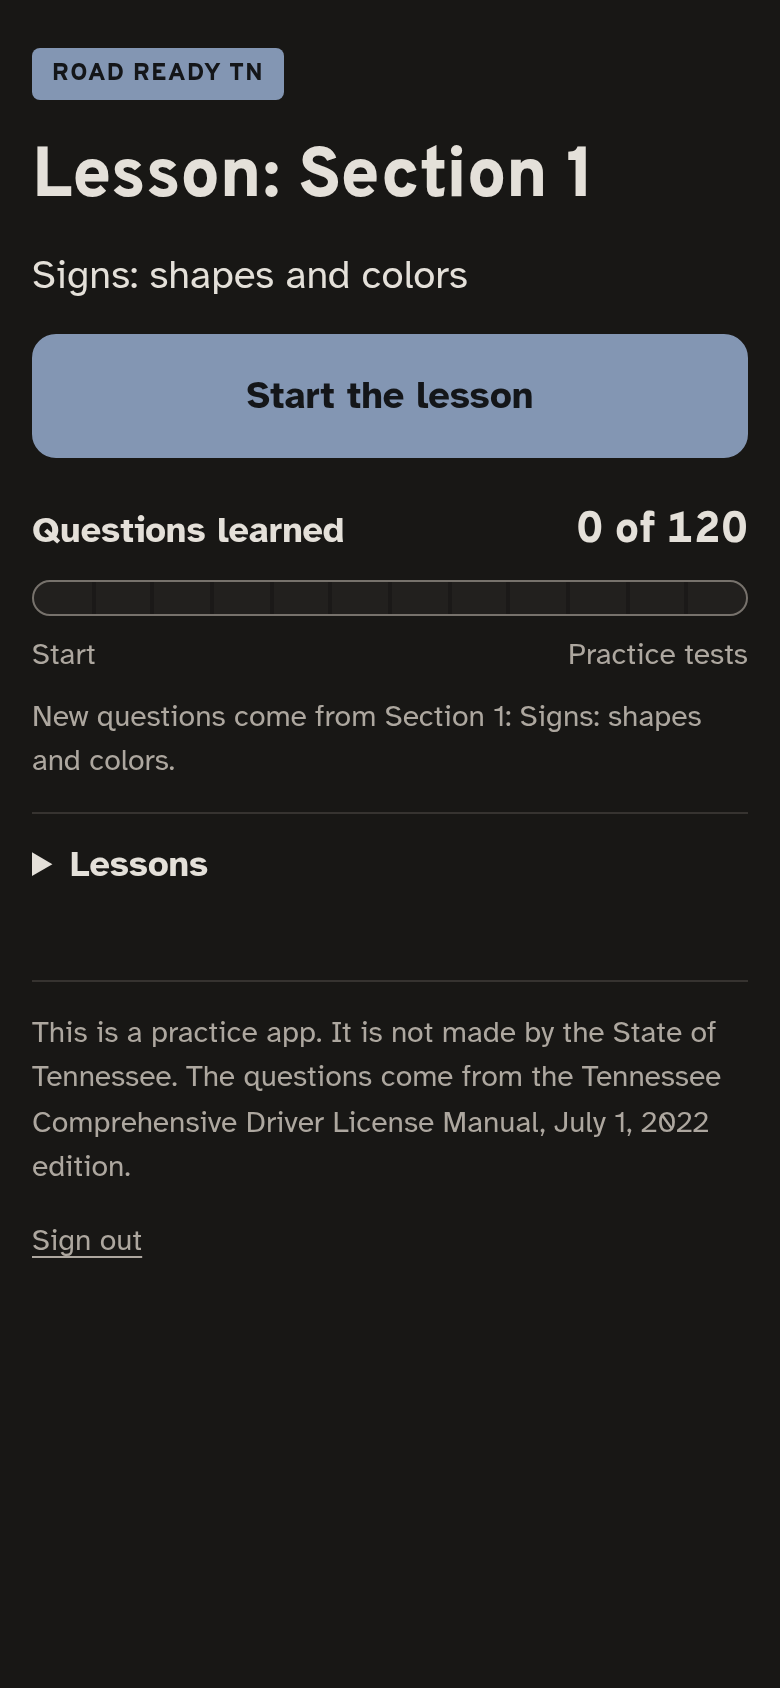
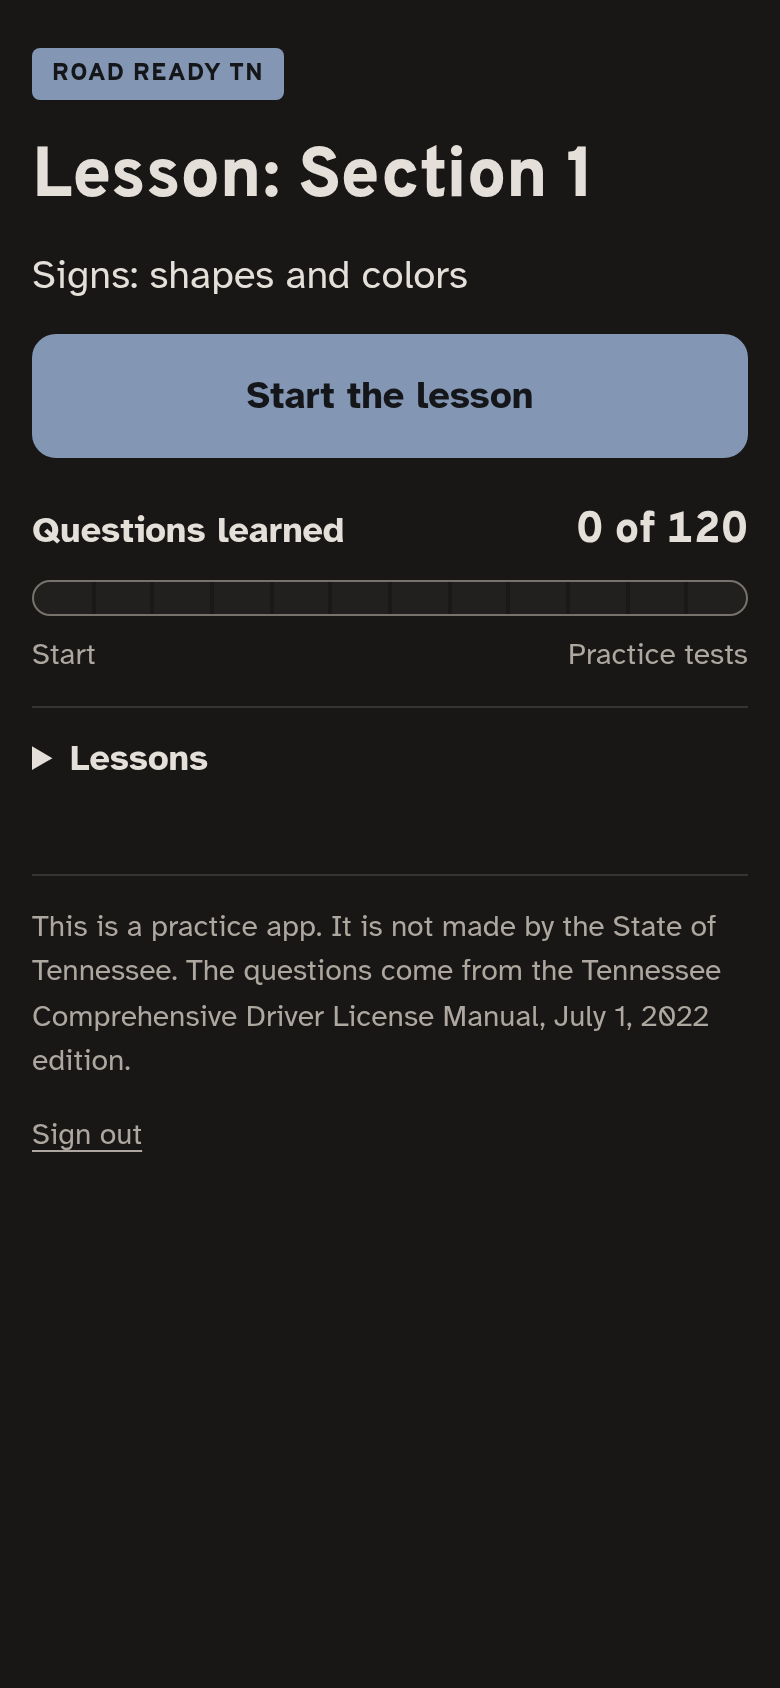
Nothing is written under the bar of questions learned
The line "New questions come from Section N: title." was left from the Set flow, when a quiz introduced new facts and the bar had to say which Section they came from. With "Lesson: Section N" named right above it, it repeated the lesson block in a sentence, which the owner asked about. Gone, with its two siblings ("You have learned every question. Practice tests are open to you.", "You are Ready for the test."), which the Practice tests heading and the Ready sign already say.

Changed region(s): [[0.0308, 0.4929, 0.9231, 0.7393], [0.0308, 0.4005, 0.8923, 0.4621], [0.0308, 0.4929, 0.0615, 0.5237]]

diff --git a/dist/index.html b/dist/index.html
@@ -103,7 +103,6 @@ h2 { font-size: clamp(24px, 6vw, 30px); }
 .route .tick { position: absolute; top: 0; bottom: 0; width: 2px; margin-left: -1px; background: var(--bg); opacity: .7; }
 .route-ends { font-size: 15px; color: var(--muted); }
 .route-ends .open { color: var(--guide); font-weight: 700; }
-.route-where { margin: 0; }
 @media (prefers-reduced-motion: no-preference) {
   .route-gain { animation: grow 900ms cubic-bezier(.16, 1, .3, 1) 250ms both; }
   @keyframes grow { from { transform: scaleX(0); } to { transform: scaleX(1); } }
@@ -727,15 +726,13 @@ function paint(html, focus) {
 const toTop = () => window.scrollTo({ top: 0, behavior: 'instant' });
 
 // The road from no facts to Practice tests: one bar of the 120 facts learned, marked off into the 12
-// Sections like mile markers. `before` (a Progress from before a Set) adds the stretch that Set covered,
-// in a lighter tint that grows in. Under it, one line says where new facts come from.
+// Sections like mile markers. `before` (a Progress from before a quiz) adds the stretch that quiz covered,
+// in a lighter tint that grows in. Nothing is written under it: the block above the bar already names what
+// comes next.
 function route(p = S, before = null) {
   const total = QS.length, l = learnedCount(p), was = before ? Math.min(learnedCount(before), l) : l;
   const pct = n => `${(n / total * 100).toFixed(2)}%`, isReady = ready(p), open = unlocked(p);
-  const next = cursorOrder(p).find(day => sectionFacts(p, day).some(f => !f.asked));
   const ticks = DAYS.slice(1).map((_, k) => `<span class="tick" style="left:${pct((k + 1) * total / DAYS.length)}"></span>`).join('');
-  const where = isReady ? 'You are Ready for the test.' : next !== undefined ? `New questions come from Section ${next}: ${DAYS[next - 1].title}.`
-    : open ? 'You have learned every question. Practice tests are open to you.' : '';
   return `<section class="route" aria-label="You have learned ${l} of the ${total} questions.">
       <div class="route-head" aria-hidden="true"><span>Questions learned</span><span class="route-count">${l} of ${total}</span></div>
       <div class="route-track" aria-hidden="true">
@@ -744,7 +741,6 @@ function route(p = S, before = null) {
         ${ticks}
       </div>
       <div class="route-ends" aria-hidden="true"><span>Start</span><span class="${isReady || open ? 'open' : ''}">${isReady ? 'Ready for the test' : 'Practice tests'}</span></div>
-      ${where ? `<p class="sub small route-where">${esc(where)}</p>` : ''}
     </section>`;
 }
 

diff --git a/src/app.html b/src/app.html
@@ -103,7 +103,6 @@ h2 { font-size: clamp(24px, 6vw, 30px); }
 .route .tick { position: absolute; top: 0; bottom: 0; width: 2px; margin-left: -1px; background: var(--bg); opacity: .7; }
 .route-ends { font-size: 15px; color: var(--muted); }
 .route-ends .open { color: var(--guide); font-weight: 700; }
-.route-where { margin: 0; }
 @media (prefers-reduced-motion: no-preference) {
   .route-gain { animation: grow 900ms cubic-bezier(.16, 1, .3, 1) 250ms both; }
   @keyframes grow { from { transform: scaleX(0); } to { transform: scaleX(1); } }
@@ -727,15 +726,13 @@ function paint(html, focus) {
 const toTop = () => window.scrollTo({ top: 0, behavior: 'instant' });
 
 // The road from no facts to Practice tests: one bar of the 120 facts learned, marked off into the 12
-// Sections like mile markers. `before` (a Progress from before a Set) adds the stretch that Set covered,
-// in a lighter tint that grows in. Under it, one line says where new facts come from.
+// Sections like mile markers. `before` (a Progress from before a quiz) adds the stretch that quiz covered,
+// in a lighter tint that grows in. Nothing is written under it: the block above the bar already names what
+// comes next.
 function route(p = S, before = null) {
   const total = QS.length, l = learnedCount(p), was = before ? Math.min(learnedCount(before), l) : l;
   const pct = n => `${(n / total * 100).toFixed(2)}%`, isReady = ready(p), open = unlocked(p);
-  const next = cursorOrder(p).find(day => sectionFacts(p, day).some(f => !f.asked));
   const ticks = DAYS.slice(1).map((_, k) => `<span class="tick" style="left:${pct((k + 1) * total / DAYS.length)}"></span>`).join('');
-  const where = isReady ? 'You are Ready for the test.' : next !== undefined ? `New questions come from Section ${next}: ${DAYS[next - 1].title}.`
-    : open ? 'You have learned every question. Practice tests are open to you.' : '';
   return `<section class="route" aria-label="You have learned ${l} of the ${total} questions.">
       <div class="route-head" aria-hidden="true"><span>Questions learned</span><span class="route-count">${l} of ${total}</span></div>
       <div class="route-track" aria-hidden="true">
@@ -744,7 +741,6 @@ function route(p = S, before = null) {
         ${ticks}
       </div>
       <div class="route-ends" aria-hidden="true"><span>Start</span><span class="${isReady || open ? 'open' : ''}">${isReady ? 'Ready for the test' : 'Practice tests'}</span></div>
-      ${where ? `<p class="sub small route-where">${esc(where)}</p>` : ''}
     </section>`;
 }
 

diff --git a/dist/sw.js b/dist/sw.js
@@ -6,7 +6,7 @@
 // - Fonts, icons and the manifest (STATIC_FILES, as build.py lists them): cache first, in
 //   rrtn-static-<version>.
 // - Everything else, every /api/ request among it, goes to the network and is never kept.
-const VERSION = '6aef570f28c8';
+const VERSION = '642a0ac2ba06';
 const STATIC_FILES = ["apple-touch-icon.png", "fonts/atkinson-hyperlegible/atkinson-hyperlegible-400.woff2", "fonts/atkinson-hyperlegible/atkinson-hyperlegible-700.woff2", "fonts/overpass/overpass-variable.woff2", "icon-192.png", "icon-512.png", "manifest.webmanifest"];
 const PAGES = 'rrtn-pages';
 const STATIC = 'rrtn-static-' + VERSION;

diff --git a/tests/test_app.py b/tests/test_app.py
@@ -1465,9 +1465,8 @@ def check_manage_learner(browser):
               "an answer given after the Move sends that Set to the server again")
         reload(cpg)
         wait_for_stage_text(cpg, "Questions learned 0 of 120")
-        check(cpg.evaluate("setPlan(S, Date.now()).lesson") == 4 and h1(cpg) == "Lesson: Section 4"
-              and texts(cpg, ".route-where") == [f"New questions come from Section 4: {SECTION_TITLES[4]}."],
-              "the Learner's next app open offers Section 4's lesson", texts(cpg, ".route-where"))
+        check(cpg.evaluate("setPlan(S, Date.now()).lesson") == 4 and h1(cpg) == "Lesson: Section 4" and not cpg.query_selector(".route p"),
+              "the Learner's next app open offers Section 4's lesson, and nothing is written under the bar", stage_text(cpg))
         check_set_dropped(cpg, inst, casey, "Move")
         pg.get_by_role("button", name="Move", exact=True).click()
         check(pg.eval_on_selector("#fTo", "s => s.selectedOptions[0].textContent") == "Start new facts from Section 4",
@@ -1601,9 +1600,8 @@ def check_records_on_server(browser, inst):
           "a Reset put into the database shows on the Learner's next app open")
     store_for(inst, learner, "move", {"to": 4})
     reload(pg)
-    check(wait_for_h1(pg, "Lesson: Section 4") == "Lesson: Section 4"
-          and texts(pg, ".route-where") == [f"New questions come from Section 4: {SECTION_TITLES[4]}."],
-          "a Move to Section 4 put into the database shows on the Learner's next app open", texts(pg, ".route-where"))
+    check(wait_for_h1(pg, "Lesson: Section 4") == "Lesson: Section 4" and texts(pg, ".home .theme") == [SECTION_TITLES[4]],
+          "a Move to Section 4 put into the database shows on the Learner's next app open", stage_text(pg))
     without_lessons(pg)
     pg.click("#startBtn")
     check(pg.evaluate("run.screens.filter(s => s.kind === 'rule').map(s => BY_ID[s.id].day)") == [4] * 5,
@@ -2060,8 +2058,9 @@ def check_study_path(browser, inst, scheme="light"):
     pg.click("#homeBtn")
     reload(pg)
     check(texts(pg, ".route-count") == ["15 of 120"], "progress is kept across a reload")
-    check(h1(pg) == "Lesson: Section 2" and texts(pg, ".route-where") == [f"New questions come from Section 2: {SECTION_TITLES[2]}."],
-          "once all 10 of Section 1's facts are learned, and the lesson files are back, Section 2's lesson is next", texts(pg, ".route"))
+    check(h1(pg) == "Lesson: Section 2" and texts(pg, ".home .theme") == [SECTION_TITLES[2]] and not pg.query_selector(".route p"),
+          "once all 10 of Section 1's facts are learned, and the lesson files are back, Section 2's lesson is next, and nothing is written under the bar",
+          texts(pg, ".route"))
     check(not errors, f"no page errors in {scheme} mode" + (f": {errors}" if errors else ""))
     ctx.close()
 
@@ -2133,8 +2132,8 @@ def check_known_facts(browser, inst):
     check(home.startswith("Practice tests To pass the real test, you need 24 or more correct out of 30. You are Ready for the test when you get 27 or more correct on 3 practice tests in a row.")
           and pg.get_attribute("#testBtn", "class") == "btn primary",
           "Practice tests appear, and Start a practice test is the main button", home)
-    check(texts(pg, ".route-count") == ["120 of 120"] and texts(pg, ".route-where") == ["You have learned every question. Practice tests are open to you."],
-          "the road is full and says Practice tests are open", texts(pg, ".route"))
+    check(texts(pg, ".route-count") == ["120 of 120"] and texts(pg, ".route-ends .open") == ["Practice tests"] and not pg.query_selector(".route p"),
+          "the road is full, its end is lit, and nothing is written under it", texts(pg, ".route"))
 
     # A Practice test: 30 questions, no rule screens; its wrong answers come back in the next quiz.
     pg.click("#testBtn")
@@ -2181,7 +2180,7 @@ def check_known_facts(browser, inst):
           "three Practice tests in a row at 27 or more shows Ready for the test", stage_text(pg))
     reload(pg)
     check(texts(pg, ".sign h1") == ["Ready for the test"], "Ready for the test is still shown after a reload")
-    check(texts(pg, ".route-where") == ["You are Ready for the test."], "and the road says so", texts(pg, ".route-where"))
+    check(texts(pg, ".route-ends .open") == ["Ready for the test"] and not pg.query_selector(".route p"), "and the road's end says so", texts(pg, ".route"))
     check(not errors, "no page errors" + (f": {errors}" if errors else ""))
     ctx.close()
 
